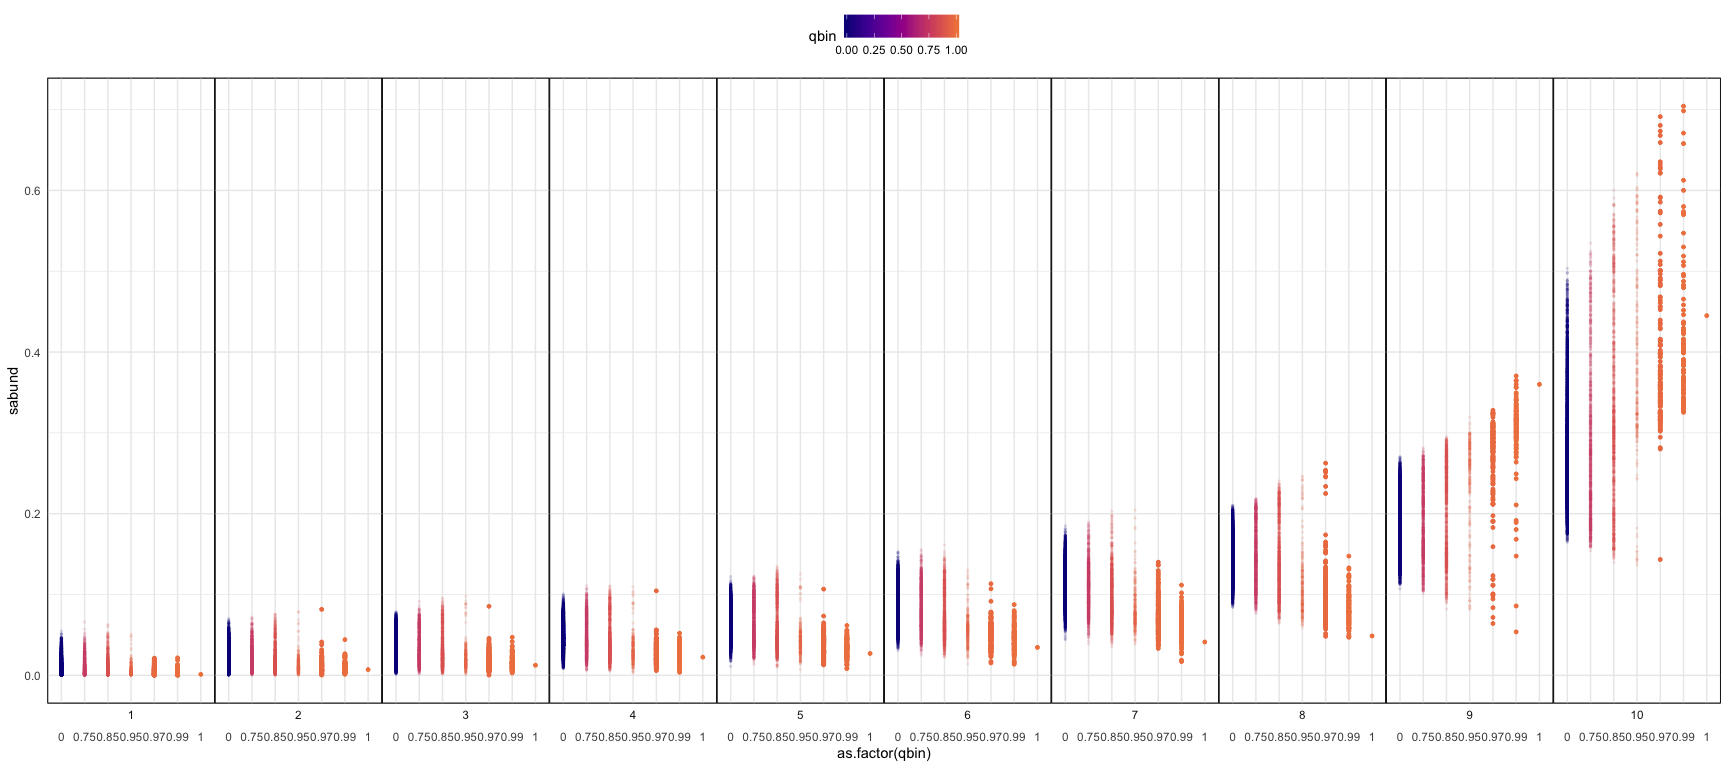
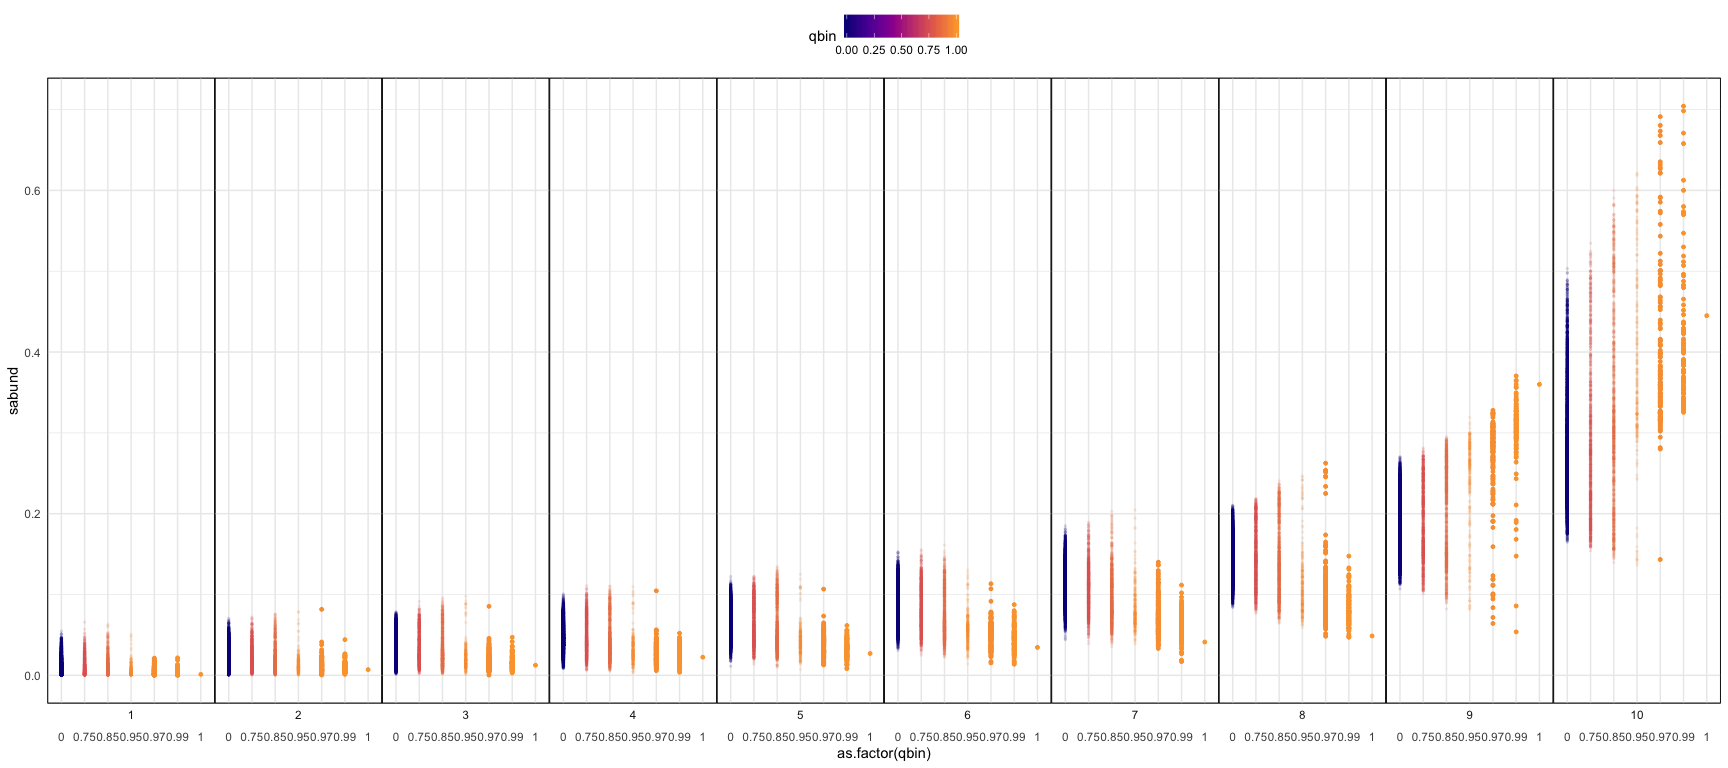
abundance linecloud

diff --git a/reports/fs_space.md b/reports/fs_space.md
@@ -46,3 +46,5 @@ SSQE is error of estimation vs. real value. There is no real value for the centr
 ![](fs_space_files/figure-markdown_github/dist%20to%20centroid%20plot-1.png)
 
 ![](fs_space_files/figure-markdown_github/heatmap-1.png)
+
+![](fs_space_files/figure-markdown_github/linecloud-1.png)
